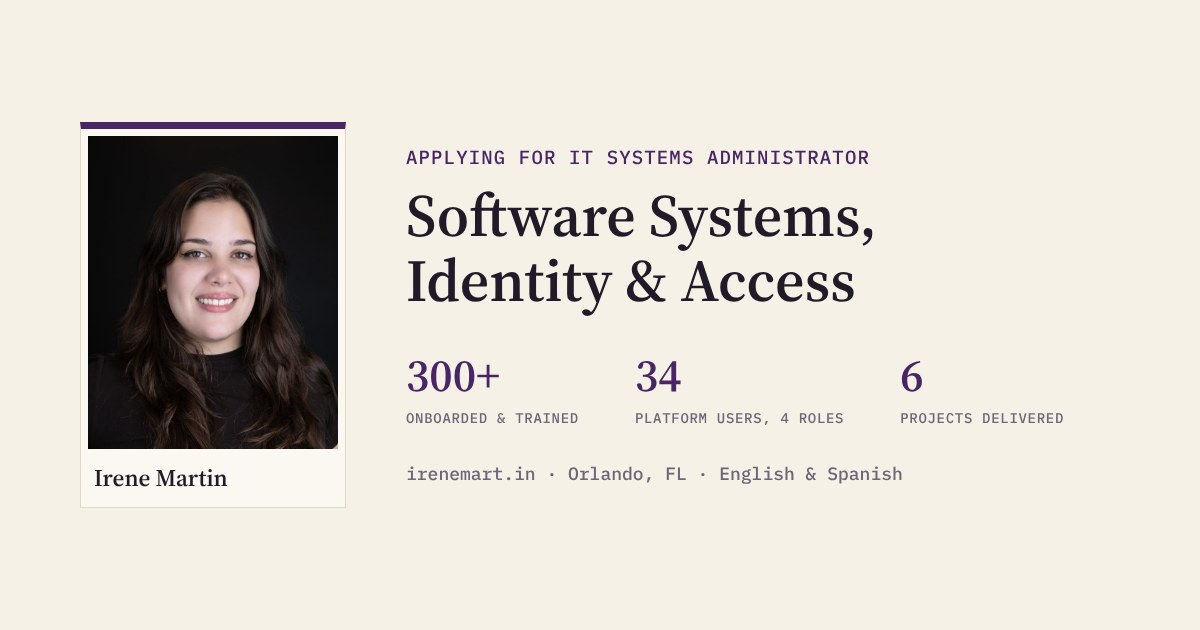
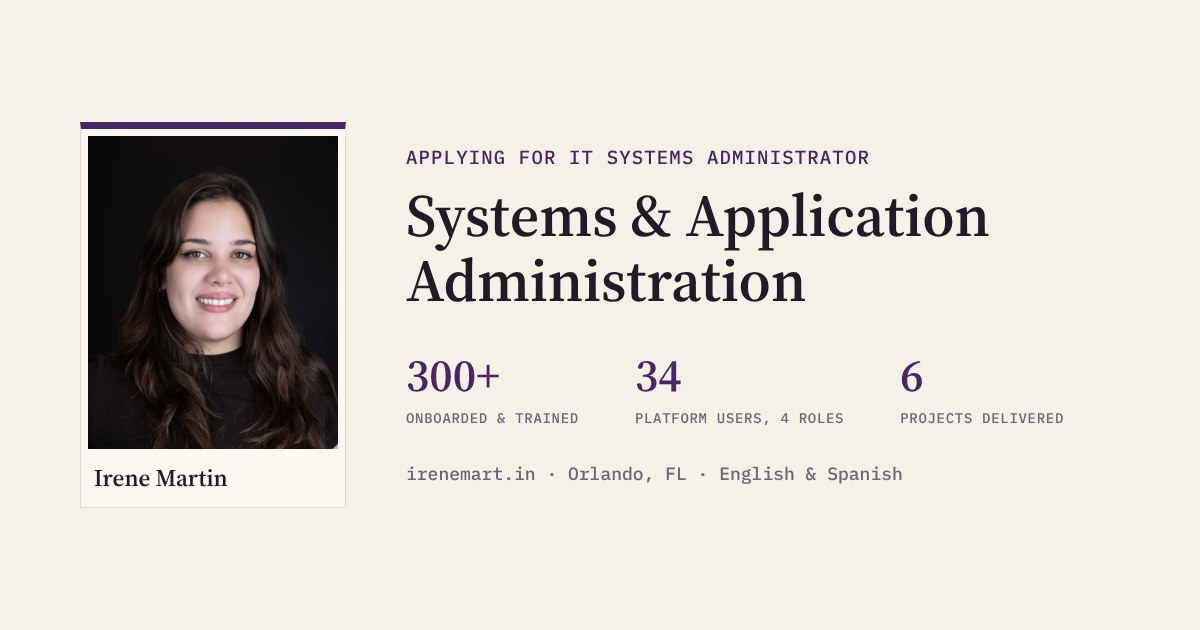
Site wording matches resume: Systems & Application Administration title, OCLS-focused hero, trimmed tools, share image
Claude-Session: https://claude.ai/code/session_01NYLiAGraZxhxKf564HUnvc

Changed region(s): [[0.3392, 0.3016, 0.8325, 0.4825]]

diff --git a/index.html b/index.html
@@ -3,30 +3,30 @@
 <head>
   <meta charset="utf-8">
   <meta name="viewport" content="width=device-width, initial-scale=1">
-  <title>Irene Martin: Software Systems, Identity &amp; Access</title>
-  <meta name="description" content="Irene Martin, Orlando FL. Software systems developer: builds and maintains live business applications, manages accounts and permissions, and troubleshoots access and application issues.">
+  <title>Irene Martin: Systems &amp; Application Administration, Identity &amp; Access</title>
+  <meta name="description" content="Irene Martin, Orlando FL. Systems and application administration, identity and access, software development. Manages user accounts and access, supports applications, finds root causes, and documents and trains staff on changes.">
   <meta name="author" content="Irene Martin">
   <meta name="theme-color" content="#f7f1e5">
   <link rel="canonical" href="https://irenemart.in/">
 
   <meta property="og:type" content="website">
   <meta property="og:site_name" content="Irene Martin">
-  <meta property="og:title" content="Irene Martin: Software Systems, Identity &amp; Access">
-  <meta property="og:description" content="IT systems and user support. Orlando, Florida · English &amp; Spanish.">
+  <meta property="og:title" content="Irene Martin: Systems &amp; Application Administration, Identity &amp; Access">
+  <meta property="og:description" content="Systems &amp; application administration, identity &amp; access, software development. Orlando, Florida · English &amp; Spanish.">
   <meta property="og:url" content="https://irenemart.in/">
   <meta property="og:image" content="https://irenemart.in/assets/og-image.jpg">
   <meta property="og:image:width" content="1200">
   <meta property="og:image:height" content="630">
   <meta property="og:image:alt" content="Irene Martin — IT systems, access and technical operations">
   <meta name="twitter:card" content="summary_large_image">
-  <meta name="twitter:title" content="Irene Martin: Software Systems, Identity &amp; Access">
-  <meta name="twitter:description" content="IT systems and user support. Orlando, Florida.">
+  <meta name="twitter:title" content="Irene Martin: Systems &amp; Application Administration, Identity &amp; Access">
+  <meta name="twitter:description" content="Systems &amp; application administration, identity &amp; access, software development. Orlando, Florida · English &amp; Spanish.">
   <meta name="twitter:image" content="https://irenemart.in/assets/og-image.jpg">
 
   <link rel="icon" href="/favicon.svg" type="image/svg+xml">
   <link rel="apple-touch-icon" href="/assets/apple-touch-icon.png">
   <link rel="preload" href="/assets/fonts/source-serif-4-600.woff" as="font" type="font/woff" crossorigin>
-  <link rel="stylesheet" href="/assets/styles.css?v=32">
+  <link rel="stylesheet" href="/assets/styles.css?v=33">
   <script src="/assets/main.js?v=21" defer></script>
 </head>
 <body>
@@ -34,7 +34,7 @@
 
 <header class="topbar" id="top">
   <div class="wrap topbar__inner">
-    <a class="brand" href="#top" aria-label="Irene Martin, Software Systems, Identity and Access — back to top"><span class="brand__name">Irene Martin</span><span class="brand__sep" aria-hidden="true">|</span><span class="brand__role"><span class="hide-sm">Software </span>Systems · Identity &amp; Access</span></a>
+    <a class="brand" href="#top" aria-label="Irene Martin, Systems and Application Administration — back to top"><span class="brand__name">Irene Martin</span><span class="brand__sep" aria-hidden="true">|</span><span class="brand__role"><span class="hide-sm">Systems &amp; Application Administration</span><span class="show-sm">Systems &amp; App Admin</span></span></a>
     <nav aria-label="Primary">
       <ul class="nav">
         <li><a href="#skills">Skills</a></li>
@@ -63,8 +63,8 @@
     </div>
 
     <p class="eyebrow">Applying for IT Systems Administrator · Orange County Library System</p>
-    <h1 id="hero-title">I build and maintain business systems, manage user accounts and permissions, and troubleshoot access and application issues for the people who use them.</h1>
-    <p class="hero__lede">Since May 2025, I’ve delivered six software projects for business clients through eBuilt.app, learning a new industry, toolset and group of users each time. Before that, I spent two years at Prime Healthcare, a health insurance agency, moving from sales into operations: activating and deactivating user accounts, setting CRM permissions, and supporting a team of up to 80.</p>
+    <h1 id="hero-title">I can help OCLS manage user accounts and access, support third-party applications, find the root cause of problems, and document and train staff on changes.</h1>
+    <p class="hero__lede">As founder of eBuilt.app, I build and maintain live business applications with authentication, role-based access, database policies, DNS, cloud deployments and API integrations, and I change systems carefully: test, verify, document, and keep a rollback ready. At Prime Healthcare, a health insurance agency, I moved from sales into operations, handling account activation and deactivation, CRM permissions, workstation support and training for a team of up to 80. I work in English or Spanish, and I’m ready to grow into OCLS’s network and enterprise tools.</p>
     <p class="hero__resume"><a class="btn btn--resume" href="/resume/?v=5"><svg class="ico" viewBox="0 0 16 16" aria-hidden="true" focusable="false"><path d="M4 1.5h5.5L13 5v9.5H4z M9.5 1.5V5H13 M6 8.5h5 M6 11h5" fill="none" stroke="currentColor" stroke-width="1.4" stroke-linejoin="round"/></svg>View my resume</a></p>
 
     <ul class="stats">
@@ -93,7 +93,7 @@
       <div><dt>Scripting &amp; integrations<span>eBuilt</span></dt><dd>Connected Google OAuth, mapping, email and payment services using JavaScript and APIs, and automated recurring workflows.<p class="fit__tools">JavaScript · React · APIs · webhooks · automation</p></dd></div>
       <div><dt>Networking fundamentals<span>eBuilt</span></dt><dd>Configured domains and DNS on Cloudflare for live sites. Basic router and Wi-Fi troubleshooting, and a foundational understanding of TCP/IP and DHCP.<p class="fit__tools">DNS · Cloudflare · router/Wi-Fi basics · TCP/IP · DHCP</p></dd></div>
       <div><dt>AI adoption<span>eBuilt</span></dt><dd>Build with Claude and other AI tools daily and help businesses adopt them in real workflows. Ready to support configuration, access and staff training for an enterprise AI rollout.<p class="fit__tools">Claude · ChatGPT · Gemini · Codex · AI-assisted development · user training</p></dd></div>
-      <div><dt>Business tools<span>Prime · eBuilt</span></dt><dd><p class="fit__tools fit__tools--only">Google Workspace · Microsoft 365 · RingCentral (cloud VoIP) · Priority1 TMS · Sircon · carrier portals · QuickBooks · LeadConnector</p></dd></div>
+      <div><dt>Business tools<span>Prime · eBuilt</span></dt><dd><p class="fit__tools fit__tools--only">Google Workspace · Microsoft 365 · RingCentral (cloud VoIP) · Sircon · CMS insurance platforms · carrier portals</p></dd></div>
       <div class="fit__next"><dt>Enterprise IT<span>Next to learn</span></dt><dd>My account lifecycle, permissions and change-control work maps to the concepts behind Active Directory, Group Policy and Intune. I haven’t administered those tools yet; they’re the first things I’d learn in this role.</dd></div>
     </dl>
 

diff --git a/resume/index.html b/resume/index.html
@@ -8,13 +8,13 @@
   <meta name="theme-color" content="#f7f1e5">
   <link rel="canonical" href="https://irenemart.in/resume/">
   <link rel="icon" href="/favicon.svg" type="image/svg+xml">
-  <link rel="stylesheet" href="/assets/styles.css?v=32">
+  <link rel="stylesheet" href="/assets/styles.css?v=33">
 </head>
 <body class="resume-page">
 <a class="skip" href="#main">Skip to content</a>
 <header class="topbar">
   <div class="wrap topbar__inner">
-    <a class="brand" href="/" aria-label="Irene Martin, Software Systems, Identity and Access — back to portfolio"><span class="brand__name">Irene Martin</span><span class="brand__sep" aria-hidden="true">|</span><span class="brand__role"><span class="hide-sm">Software </span>Systems · Identity &amp; Access</span></a>
+    <a class="brand" href="/" aria-label="Irene Martin, Irene Martin, Systems and Application Administration — back to portfolio"><span class="brand__name">Irene Martin</span><span class="brand__sep" aria-hidden="true">|</span><span class="brand__role"><span class="hide-sm">Systems &amp; Application Administration</span><span class="show-sm">Systems &amp; App Admin</span></span></a>
     <a class="textlink resume-back" href="/">← Portfolio</a>
   </div>
 </header>

diff --git a/404.html b/404.html
@@ -6,12 +6,12 @@
   <title>Page not found: Irene Martin</title>
   <meta name="robots" content="noindex">
   <link rel="icon" href="/favicon.svg" type="image/svg+xml">
-  <link rel="stylesheet" href="/assets/styles.css?v=32">
+  <link rel="stylesheet" href="/assets/styles.css?v=33">
 </head>
 <body>
 <header class="topbar">
   <div class="wrap topbar__inner">
-    <a class="brand" href="/"><span class="brand__name">Irene Martin</span><span class="brand__sep" aria-hidden="true">|</span><span class="brand__role"><span class="hide-sm">Software </span>Systems · Identity &amp; Access</span></a>
+    <a class="brand" href="/"><span class="brand__name">Irene Martin</span><span class="brand__sep" aria-hidden="true">|</span><span class="brand__role"><span class="hide-sm">Systems &amp; Application Administration</span><span class="show-sm">Systems &amp; App Admin</span></span></a>
   </div>
 </header>
 <main class="wrap notfound">

diff --git a/assets/styles.css b/assets/styles.css
@@ -441,3 +441,5 @@ a:hover { color: var(--plum); text-decoration-thickness: 2px; }
 .rh8 { left: 32.52%; top: 10.88%; width: 8.76%; height: 1.45%; }
 .rh9 { left: 44.3%; top: 8.07%; width: 8.76%; height: 1.45%; }
 .rh10 { left: 27.16%; top: 4.55%; width: 16.28%; height: 1.64%; }
+.show-sm { display: none; }
+@media (max-width: 440px) { .show-sm { display: inline; } }
